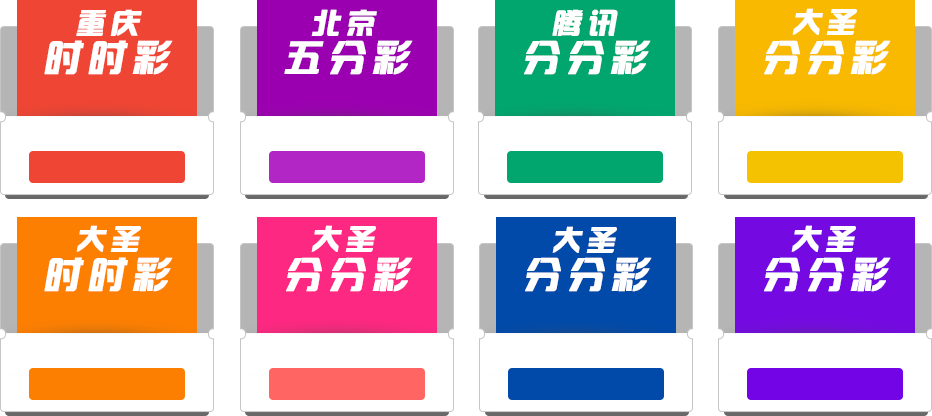
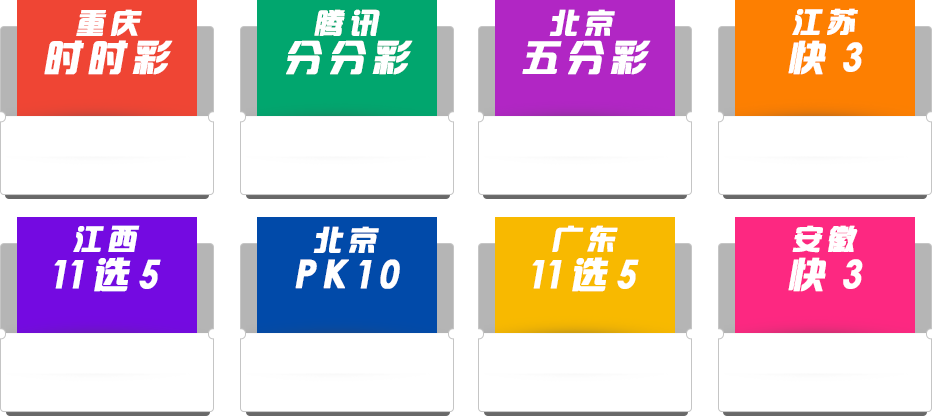
update && fix bug

diff --git a/彩票/caipiao/js/common.js b/彩票/caipiao/js/common.js
@@ -148,12 +148,6 @@
 				url: '/product/lists'
 			}, function(data) {
 				var _data = data.data;
-
-
-				_data.length = 3;
-				console.log(_data);
-
-
 				var _type = 1;
 				$.each(_data, function(i, val) {
 					if (val.code == 'jiangsu_fast_three') {
@@ -187,8 +181,7 @@
 				});
 			});
 		},
-		countDown2: function(intDiff, suffix, $id) {
-			COMMON.clearLottBetTimer();
+		countDown: function(intDiff, suffix, $id) {
 			var timer = window.setInterval(function() {
 				var day = 0,
 					hour = 0,
@@ -206,13 +199,12 @@
 						GLOBAL.alert('第<span style="padding:0 5px;">' + $('.J_betTimer').html() + '</span>期已结束<br/>请留意投注期号。', 2000);
 					}
 
-					// COMMON.clearLottBetTimer();
-
-					// if(COMMON.isIndex){
+					COMMON.clearLottBetTimer();
+					if(COMMON.isIndex){
 						COMMON.homeBallInfo();	//一起刷新
-					// } else {
-						// COMMON.getBallInfo($id);	//单独刷新一个，显示可能会有差别
-					// }
+					} else {
+						COMMON.getBallInfo($id);	//单独刷新一个，显示可能会有差别
+					}
 					return;
 				}
 				// $('#day_show' + suffix).html(day);
@@ -248,8 +240,9 @@
 					}
 				}
 			}, 1000);
-
+			// console.log(COMMON.lottBetTimer);
 			COMMON.lottBetTimer.push(timer);
+			// console.log(COMMON.lottBetTimer);
 		},
 		clearLottBetTimer: function() {
 	        if (COMMON.lottBetTimer.length > 0) {
@@ -258,81 +251,7 @@
 	            }
 	            COMMON.lottBetTimer = []
 	        }
-	        // globalVar.syncRate = 1
 	    },
-		countDown: function(intDiff, suffix, $id) {
-			// console.log(intDiff, suffix, $id)
-			// window.clearInterval(t);
-			// if(COMMON.isDeatil){
-			clearInterval(COMMON.timer2);
-			// }
-			// var xxxx = window.setInterval(function() {
-			COMMON.timer2 = window.setInterval(function() {
-				var day = 0,
-					hour = 0,
-					minute = 0,
-					second = 0; //时间默认值
-
-				if (intDiff >= 0) {
-					day = Math.floor(intDiff / (60 * 60 * 24));
-					hour = Math.floor(intDiff / (60 * 60)) - (day * 24);
-					minute = Math.floor(intDiff / 60) - (day * 24 * 60) - (hour * 60);
-					second = Math.floor(intDiff) - (day * 24 * 60 * 60) - (hour * 60 * 60) - (minute * 60);
-				} else {
-					// TODO: 结束提示
-					if (COMMON.isDeatil || COMMON.isChart) {
-						GLOBAL.alert('第<span style="padding:0 5px;">' + $('.J_betTimer').html() + '</span>期已结束<br/>请留意投注期号。', 2000);
-					}
-					// clearInterval(COMMON.timer);
-					// clearInterval(COMMON.timer2);
-					// clearInterval(xxxx);
-					clearInterval(COMMON.timer2);
-
-					if(COMMON.isIndex){
-						console.log('aaaaaaaaa');
-						// clearInterval(COMMON.timer2);
-						// COMMON.homeBallInfo();	//一起刷新
-					} else {
-						COMMON.getBallInfo($id);	//单独刷新一个，显示可能会有差别
-					}
-
-					
-					return;
-				}
-				// $('#day_show' + suffix).html(day);
-				if (hour <= 9) {
-					hour = '0' + hour;
-				}
-				if (minute <= 9) {
-					minute = '0' + minute;
-				}
-				if (second <= 9) {
-					second = '0' + second;
-				}
-
-				if (COMMON.isIndex) {
-					$('#J_hourShow' + suffix).html(hour);
-					$('#J_minuteShow' + suffix).html(minute);
-					$('#J_secondShow' + suffix).html(second);
-				} else {
-					second += '';
-					$('.J_countDownNum').html('<em>' + hour.substr(0, 1) + '</em><em>' + hour.substr(1, 1) + '</em><span>:</span><em>' + minute.substr(0, 1) + '</em><em>' + minute.substr(1, 1) + '</em><span>:</span><em>' + second.substr(0, 1) + '</em><em>' + second.substr(1, 1) + '</em>');
-				}
-				intDiff--;
-
-				// 提前10s停止投注
-				if(intDiff <= 10){
-					$('#J_shortcutPlaceOrder,#J_confirmBets').addClass('disabled');
-				} else {
-					if(!$('#J_addBallToCart').hasClass('disabled') ){
-						$('#J_shortcutPlaceOrder').removeClass('disabled');
-					}
-					if($('#J_betList li').length){
-						$('#J_confirmBets').removeClass('disabled');
-					}
-				}
-			}, 1000);
-		},
 		getBallInfo: function($id, getList) {
 			// console.log($id, getList);
 			// clearInterval(COMMON.timer2);
@@ -355,8 +274,10 @@
 					// TODO: 详情页
 					if(_url.name.indexOf('beijing') > -1) {
 						$('.J_betTimer').html(COMMON.fillLenght(data.periods.num, 3, '0')); //彩票期数
+						$('#J_dataNum').text(COMMON.fillLenght(data.prev_periods.num, 3, '0'));
 					} else {
 						$('.J_betTimer').html(data.periods.date + '-' + COMMON.fillLenght(data.periods.num, 3, '0')); //彩票期数
+						$('#J_dataNum').text(data.prev_periods.date + '-' + COMMON.fillLenght(data.prev_periods.num, 3, '0'));
 					}
 					// console.log((data.periods.date + '-' + COMMON.fillLenght(data.periods.num, 3, '0')));
 					$('.J_betTimer').data('n', (data.periods.date + '-' + COMMON.fillLenght(data.periods.num, 3, '0')));
@@ -366,7 +287,6 @@
 					COMMON.countDown(parseInt(data.periods.lottery_surplus), '', $id);
 
 					COMMON.lotteryNum('J_drawResult', data.prev_periods.lottery_num, $id);
-					$('#J_dataNum').text(data.prev_periods.date + '-' + COMMON.fillLenght(data.prev_periods.num, 3, '0'));
 
 					if(_renderHistory){
 						console.log('renderHistory=========')
@@ -463,7 +383,7 @@
 					// }
 					val.num = COMMON.fillLenght(val.num, 3, '0');
 					if (k < 3) {
-						if(_url.name.indexOf('bei') > -1){
+						if(_url.name.indexOf('beijing') > -1){
 							_list1 += '<dd>'+ val.num +'</dd>';
 						}else{
 							_list1 += '<dd>'+ val.date.replace(/\-/g, '') +'-'+ val.num +'</dd>';
@@ -482,7 +402,7 @@
 					}
 					if (k < 10) {
 						_list3 += '<li><span>';
-						if(_url.name.indexOf('bei') > -1){
+						if(_url.name.indexOf('beijing') > -1){
 							_list3 += val.num +'</span>';
 						}else{
 							_list3 += val.date.replace(/\-/g, '') +'-'+ val.num +'</span>';
@@ -675,6 +595,7 @@
 
 			if (COMMON.isIndex) {
 				console.log('index====');
+				// COMMON.clearLottBetTimer();
 				COMMON.homeBallInfo();
 			} else {
 				if (_userNav) {

diff --git a/彩票/caipiao/css/reset.css b/彩票/caipiao/css/reset.css
@@ -7,7 +7,7 @@ body{background-color:#f3f7ff}.w1200{width:1200px;margin:0 auto}.rel{position:re
 /* skin */
 .skin{width:110px;position:absolute;top:32px;right:-130px;overflow:hidden;z-index:30}.skin span{width:27px;height:49px;line-height:24px;background-color:#feb50e;color:#541f00;font-size:16px;display:block;text-align:center;border-radius:0 0 3px 3px;cursor:pointer;float:left}.skin em{display:block;width:0;height:0;border:7px solid transparent;border-right-color:#fff;float:left;margin-left:-7px;margin-top:20px;display:none}.skin ul{background:#fff;overflow:hidden;margin-top:5px;padding-top:5px;padding-left:5px;border-radius:3px;display:none}.skin li{width:30px;height:30px;float:left;margin-right:5px;margin-bottom:5px;cursor:pointer}.skin li.skin-default{background-color:#00515d}.skin li.skin-blue{background-color:#3661a2}.skin li.skin-red{background-color:red}.skin li.skin-black{background-color:black}.skin:hover em,.skin:hover ul{display:block}
 /* below-header */
-.below-header{height:122px}.below-logo{margin-top:23px;margin-right:14px;width:88px;height:72px}.below-logo img{width:90px;height:68px}.below-count{width:389px;height:77px;background-color:#fff;margin-right:21px;margin-top:23px}.below-phase{width:175px;text-align:center;color:#646464;font-size:16px;padding-top:16px}.below-phase p{line-height:24px}.below-phase span{padding:0 3px;font-family:'Arial'}.below-count-num{padding-top:18px}.below-count-num em{display:block;width:28px;height:47px;line-height:47px;text-align:center;background:url(../images/icon.png) -100px -100px;color:#fff;float:left;margin-right:4px;font-weight:bold;font-family:'Arial';font-size:30px;font-style:normal}.below-count-num span{margin-right:4px;float:left;display:inline-block;color:#ef5f23;font-weight:bold;font-family:'Arial';font-size:20px;line-height:47px}.below-num{width:451px;height:77px;background-color:#fff;margin-right:24px;margin-top:23px}.below-prize-num{padding-top:16px}.below-prize-num em{float:left;display:block;width:48px;height:48px;line-height:48px;text-align:center;color:#fff;font-weight:bold;font-size:35px;background:url(../images/icon.png) -150px -100px;margin-right:7px;font-style:normal}.below-history{color:#646464;width:213px}.below-history dl{}.below-history dt{font-size:16px}.below-history dd{font-size:14px;color:#646464;line-height:19px}.history-issue{}.history-issue dt{margin-top:20px}.history-issue dd{letter-spacing: 1px;}.history-trend{}.history-trend dt{font-size:14px;color:#0c84ff;margin-top:23px}.history-trend dt em{width:21px;height:19px;background-position:-200px -100px;margin-right:3px}.history-trend dd{letter-spacing:3px}.below-history-box{padding:10px;background-color:#ffeab9;font-size:12px;color:#666;width:219px;top:47px;left:0;border-radius:3px;display: none;z-index: 10;}.below-history-box li{line-height:24px}.below-history-box li{line-height:24px;letter-spacing:5px}.below-history-box li em{letter-spacing:3px;float:right}
+.below-header{height:122px}.below-logo{margin-top:23px;margin-right:14px;width:88px;height:72px}.below-logo img{width:90px;height:68px}.below-count{width:389px;height:77px;background-color:#fff;margin-right:21px;margin-top:23px}.below-phase{width:175px;text-align:center;color:#646464;font-size:16px;padding-top:16px}.below-phase p{line-height:24px}.below-phase span{padding:0 3px;font-family:'Arial'}.below-count-num{padding-top:18px}.below-count-num em{display:block;width:28px;height:47px;line-height:47px;text-align:center;background:url(../images/icon.png) -100px -100px;color:#fff;float:left;margin-right:4px;font-weight:bold;font-family:'Arial';font-size:30px;font-style:normal}.below-count-num span{margin-right:4px;float:left;display:inline-block;color:#ef5f23;font-weight:bold;font-family:'Arial';font-size:20px;line-height:47px}.below-num{width:451px;height:77px;background-color:#fff;margin-right:24px;margin-top:23px}.below-prize-num{padding-top:16px}.below-prize-num em{float:left;display:block;width:48px;height:48px;line-height:48px;text-align:center;color:#fff;font-weight:bold;font-size:35px;background:url(../images/icon.png) -150px -100px;margin-right:7px;font-style:normal}.below-history{color:#646464;width:213px}.below-history dl{}.below-history dt{font-size:16px}.below-history dd{font-size:14px;color:#646464;line-height:19px}.history-issue{}.history-issue dt{margin-top:20px}.history-issue dd{letter-spacing: 1px;}.history-trend{}.history-trend dt{font-size:14px;color:#0c84ff;margin-top:23px}.history-trend dt em{width:21px;height:19px;background-position:-200px -100px;margin-right:3px}.history-trend dd{letter-spacing:2px}.below-history-box{padding:10px;background-color:#ffeab9;font-size:12px;color:#666;width:219px;top:47px;left:0;border-radius:3px;display: none;z-index: 10;}.below-history-box li{line-height:24px}.below-history-box li{line-height:24px;letter-spacing:5px}.below-history-box li em{letter-spacing:3px;float:right}
 
 /* pk10 header */
 .pk10-head{background:#e0eef7 url(../images/pk.png) no-repeat 4px center;width:400px;height:77px;padding-top:11px;padding-left:70px;margin-top:23px;margin-left:-10px;margin-right: 24px;}.pk10-phase{font-size:16px;color:#646464;margin-bottom:5px}.pk10-phase span{padding:0 3px}.pk10-prize-num{}.pk10-prize-num em{display:inline-block;float:left;width:28px;height:28px;line-height:28px;text-align:center;background:#ef5f23;border-radius:14px;color:#fff;margin-right:5px}

diff --git a/彩票/caipiao/css/index.css b/彩票/caipiao/css/index.css
@@ -5,14 +5,22 @@
 /* banner-user */
 .banner-user{width:259px;height:285px;background-color:#000;background-color:rgba(0,0,0,0.3);position:absolute;z-index:10;right:18px;top:115px;border-radius:7px}.user-avatar{}.user-avatar img{display:block;width:64px;height:64px;border-radius:50%;margin:-32px auto 0}.user-name{font-weight:bold;color:#fff;text-align:center;line-height:38px}.user-balance{line-height:82px;font-size:18px;font-weight:bold;color:#fff;text-align:center}.user-balance span{font-size:24px}.user-recharge{display:block;width:204px;height:34px;line-height:34px;color:#fff;font-weight:bold;text-align:center;margin:0 auto;background-color:#fd3c44;border-radius:4px}.user-recharge:hover{color:#fff}.user-q{}.user-q a{line-height:42px;font-size:12px;color:#e2e2e2}.user-q a.fl{margin-left:27px}.user-q a.fr{margin-right:27px;color:#fd3c44}.user-log{font-size:12px;color:#b2b2b2;line-height:55px;text-align:center}
 /* lottery */
-.lottery{width:980px;margin-bottom:35px;margin-right:-26px}.lottery-list{overflow:hidden}.lottery-list li{float:left;width:215px;height:199px;padding-top:76px;margin-bottom:18px;margin-right:26px;text-align:center;background:url(../images/lottery.png)}.lottery-list li.kind1{background-position:0px 0px}.lottery-list li.kind2{background-position:-478px 0px}.lottery-list li.kind3{background-position:-240px 0px}.lottery-list li.kind4{background-position:-718px 0px}.lottery-list li.kind5{background-position:0px -217px}.lottery-list li.kind6{background-position:-240px -217px}.lottery-list li.kind7{background-position:-478px -217px}.lottery-list li.kind8{background-position:-718px -217px}.lottery-list li > div{height:40px;line-height:40px;color:#fff;font-size:26px;font-weight:bold}.lottery-list li > p{height:35px;line-height:35px;font-size:12px}.lottery-list li > p span{padding:0 3px}.lottery-list li > a{display:block;width:154px;height:32px;line-height:32px;text-align:center;color:#fff;margin:0 auto;border-radius: 5px;}
+.lottery{width:980px;margin-bottom:35px;margin-right:-26px}.lottery-list{overflow:hidden}.lottery-list li{float:left;width:215px;height:199px;padding-top:76px;margin-bottom:18px;margin-right:26px;text-align:center;background:url(../images/lottery.png)}.lottery-list li.kind1{background-position:0px 0px}.lottery-list li.kind3{background-position:-478px 0px}.lottery-list li.kind2{background-position:-240px 0px}.lottery-list li.kind4{background-position:-718px 0px}.lottery-list li.kind5{background-position:0px -217px}.lottery-list li.kind6{background-position:-240px -217px}.lottery-list li.kind7{background-position:-478px -217px}.lottery-list li.kind8{background-position:-718px -217px}.lottery-list li > div{height:40px;line-height:40px;color:#fff;font-size:26px;font-weight:bold}.lottery-list li > p{height:35px;line-height:35px;font-size:12px}.lottery-list li > p span{padding:0 3px}.lottery-list li > a{display:block;width:154px;height:32px;line-height:32px;text-align:center;color:#fff;margin:0 auto;border-radius: 5px;}
+.lottery-list li > a.t1{background-color: #ef4534;}
+.lottery-list li > a.t2{background-color: #01a66e;}
+.lottery-list li > a.t3{background-color: #b126c4;}
+.lottery-list li > a.t4{background-color: #fd7f01;}
+.lottery-list li > a.t5{background-color: #740ae1;}
+.lottery-list li > a.t6{background-color: #014aa9;}
+.lottery-list li > a.t7{background-color: #f8b900;}
+.lottery-list li > a.t8{background-color: #fd2881;}
 .lottery-list li > a.t1:hover{background-color: #f35642;}
 .lottery-list li > a.t2:hover{background-color: #01b984;}
 .lottery-list li > a.t3:hover{background-color: #c230d2;}
-.lottery-list li > a.t4:hover{}
-.lottery-list li > a.t5:hover{}
-.lottery-list li > a.t6:hover{}
-.lottery-list li > a.t7:hover{}
-.lottery-list li > a.t8:hover{}
+.lottery-list li > a.t4:hover{background-color: #fd9834;}
+.lottery-list li > a.t5:hover{background-color: #8f36ea;}
+.lottery-list li > a.t6:hover{background-color: #346eba;}
+.lottery-list li > a.t7:hover{background-color: #f9c733;}
+.lottery-list li > a.t8:hover{background-color: #fd539a;}
 /* news */
 .news{width:240px;border:1px solid #e5e5e5;background-color:#fff;min-height:411px}.news dt{height:34px;line-height:34px;overflow:hidden;border-bottom:1px solid #e5e5e5}.news dt em{width:18px;height:18px;background-position:-250px 0;float:left;margin:9px 7px 10px 14px}.news dd{padding-left:19px;padding-top:10px}.news dd p{line-height:20px;font-size:13px;color:#666;cursor:pointer}.news dd span{display:block;font-size:12px;color:#919090;line-height:18px;cursor:pointer}

diff --git a/彩票/caipiao/js/template.js b/彩票/caipiao/js/template.js
@@ -337,8 +337,7 @@ var TEMPLATE = {
 
 //    
     getChaseData: function(type, name, currentPeriods) {
-        // currentPeriods = '20170719-001';
-        // console.log(name, currentPeriods);
+        // type : 游戏类型
         // name : 游戏名称 如 ： chong_qing_shi_shi
         // currentPeriods ： 当前期数 如 : 20170719-088
         var data = {
@@ -346,18 +345,9 @@ var TEMPLATE = {
             maxPeriods : 0,     //最多可追的期数
         };
         var _str = '';
-        // var _now = new Date();
-        // var _y = _now.getFullYear();
-        // var _m = ((_now.getMonth() + 1) < 10 ? '0' + (_now.getMonth()+1) : (_now.getMonth()+1));
-        // var _d = (_now.getDate()< 10 ? '0' + _now.getDate() : _now.getDate());
-
         var _d0 = getDay(0);
         var _d1 = getDay(1);
         var _d2 = getDay(2);
-
-        // console.log(_d0);
-        // console.log(_d1);
-        // console.log(_d2);
 
         // var str = d.getFullYear()+"-"+(d.getMonth()+1)+"-"+d.getDate();
         switch(name){
@@ -390,24 +380,29 @@ var TEMPLATE = {
         var _lave = data.totalPeriods - _n + 1;
         var _s = '(当前)';
         
+        var _d0Str = (name.indexOf('bei') > -1 ? '' : (_d0.tYear + _d0.tMonth + _d0.tDate + '-'));
+        var _d1Str = (name.indexOf('bei') > -1 ? '' : (_d1.tYear + _d1.tMonth + _d1.tDate + '-'));
+        var _d2Str = (name.indexOf('bei') > -1 ? '' : (_d2.tYear + _d2.tMonth + _d2.tDate + '-'));
+
         for (var i = 0; i < data.maxPeriods; i++) {
+
             if (i > 0) {
                 _s = '';
             }
 
-            if (_lave == data.totalPeriods) {
+            if (_lave == data.totalPeriods || name.indexOf('bei') > -1) {
                 if (i < data.totalPeriods) {
-                    _str += '<option value="'+ i +'">'+ _d0.tYear + _d0.tMonth + _d0.tDate + '-' + toThree(_n+i) + _s +'</option>';
+                    _str += '<option value="'+ i +'">'+ _d0Str + toThree(_n+i) + _s +'</option>';
                 } else {
-                    _str += '<option value="'+ i + '">'+ _d1.tYear + _d1.tMonth + _d1.tDate + '-' + toThree(_n+i-data.totalPeriods) + '</option>';
+                    _str += '<option value="'+ i + '">'+ _d2Str + toThree(_n+i-data.totalPeriods) + '</option>';
                 }
             } else {
                 if (i < _lave) {
-                    _str += '<option value="' + i + '">'+ _d0.tYear + _d0.tMonth + _d0.tDate + '-' + toThree(_n+i) + _s +'</option>';
+                    _str += '<option value="' + i + '">'+ _d0Str + toThree(_n+i) + _s +'</option>';
                 } else if(_lave <= i && i < (_lave + data.totalPeriods)){
-                    _str += '<option value="'+ i + '">'+ _d1.tYear + _d1.tMonth + _d1.tDate + '-' + toThree(_n+i-data.totalPeriods) + '</option>';
+                    _str += '<option value="'+ i + '">'+ _d2Str + toThree(_n+i-data.totalPeriods) + '</option>';
                 } else {
-                    _str += '<option value="'+ i + '">'+ _d2.tYear + _d2.tMonth + _d2.tDate + '-' + toThree(i - data.totalPeriods - _lave + 1) + '</option>';
+                    _str += '<option value="'+ i + '">'+ _d2Str + toThree(i - data.totalPeriods - _lave + 1) + '</option>';
                 }
             }
         }

diff --git a/彩票/caipiao/js/betting.js b/彩票/caipiao/js/betting.js
@@ -587,8 +587,8 @@ $(function() {
                 periods : _periods,
                 chase : _chase
             };
-            console.log(x);
-            return;
+            // console.log(x);
+            // return;
             // 投注追号
             GLOBAL.getAjaxData({
                 url: '/bet/chase',

diff --git a/彩票/caipiao/TODO.md b/彩票/caipiao/TODO.md
@@ -96,5 +96,6 @@ TODO:   追号的最大期数
 4、顶部彩种分类
 
 
-期号的格式问题？？是否严格20170630-123
-首页定时器问题
+期号的格式问题？？是否严格20170630-123 √
+北京类的都不加日期了 √
+首页定时器问题 √
